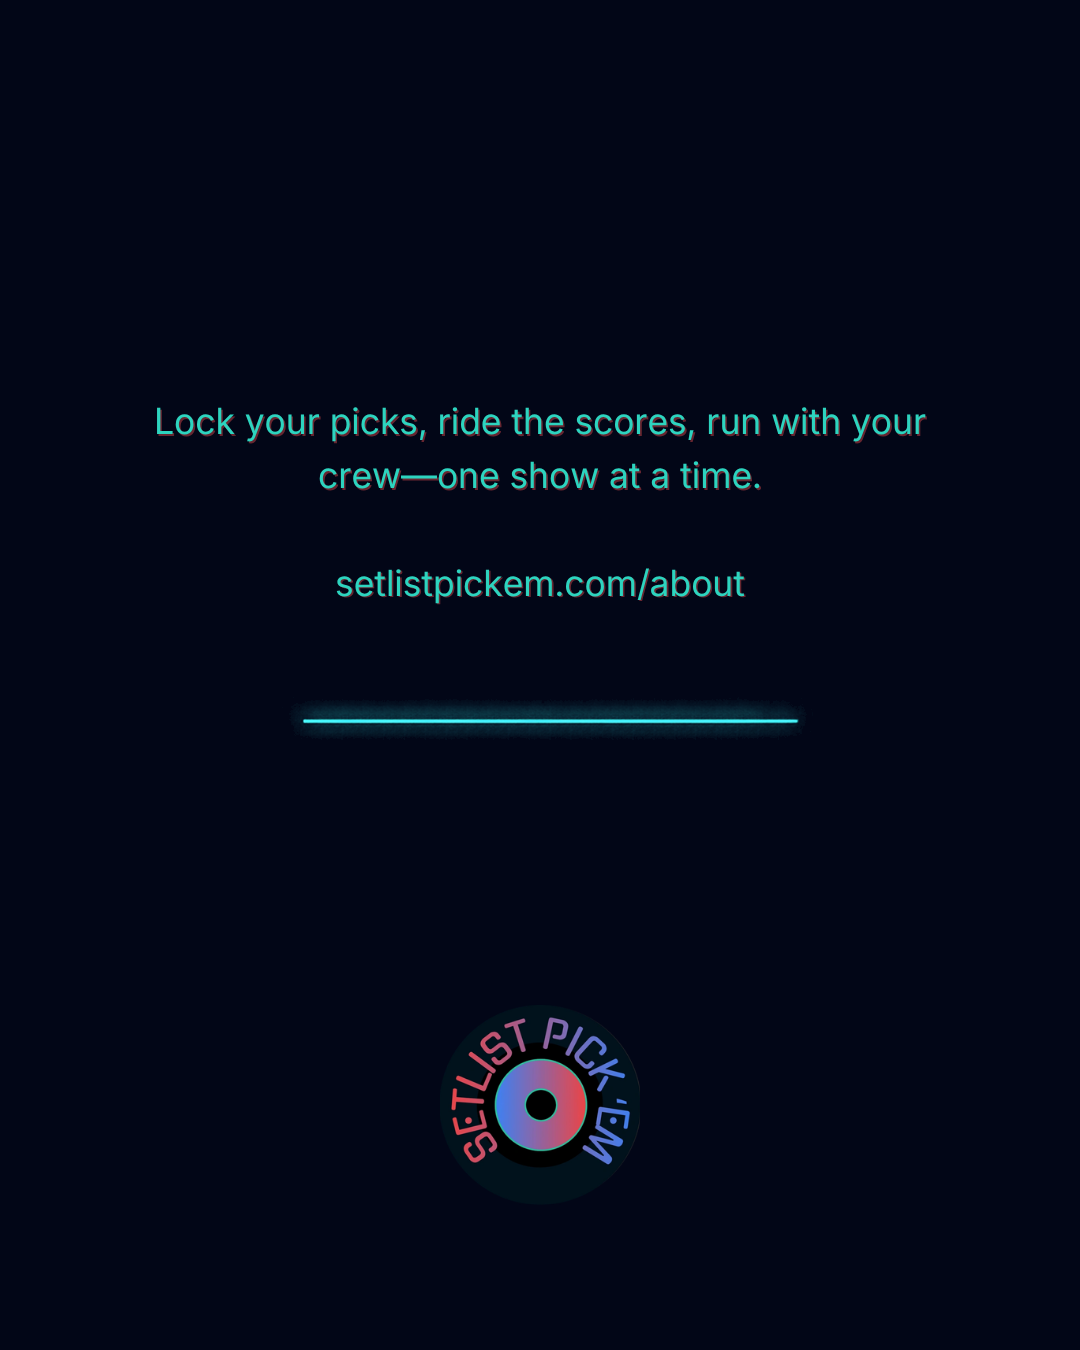
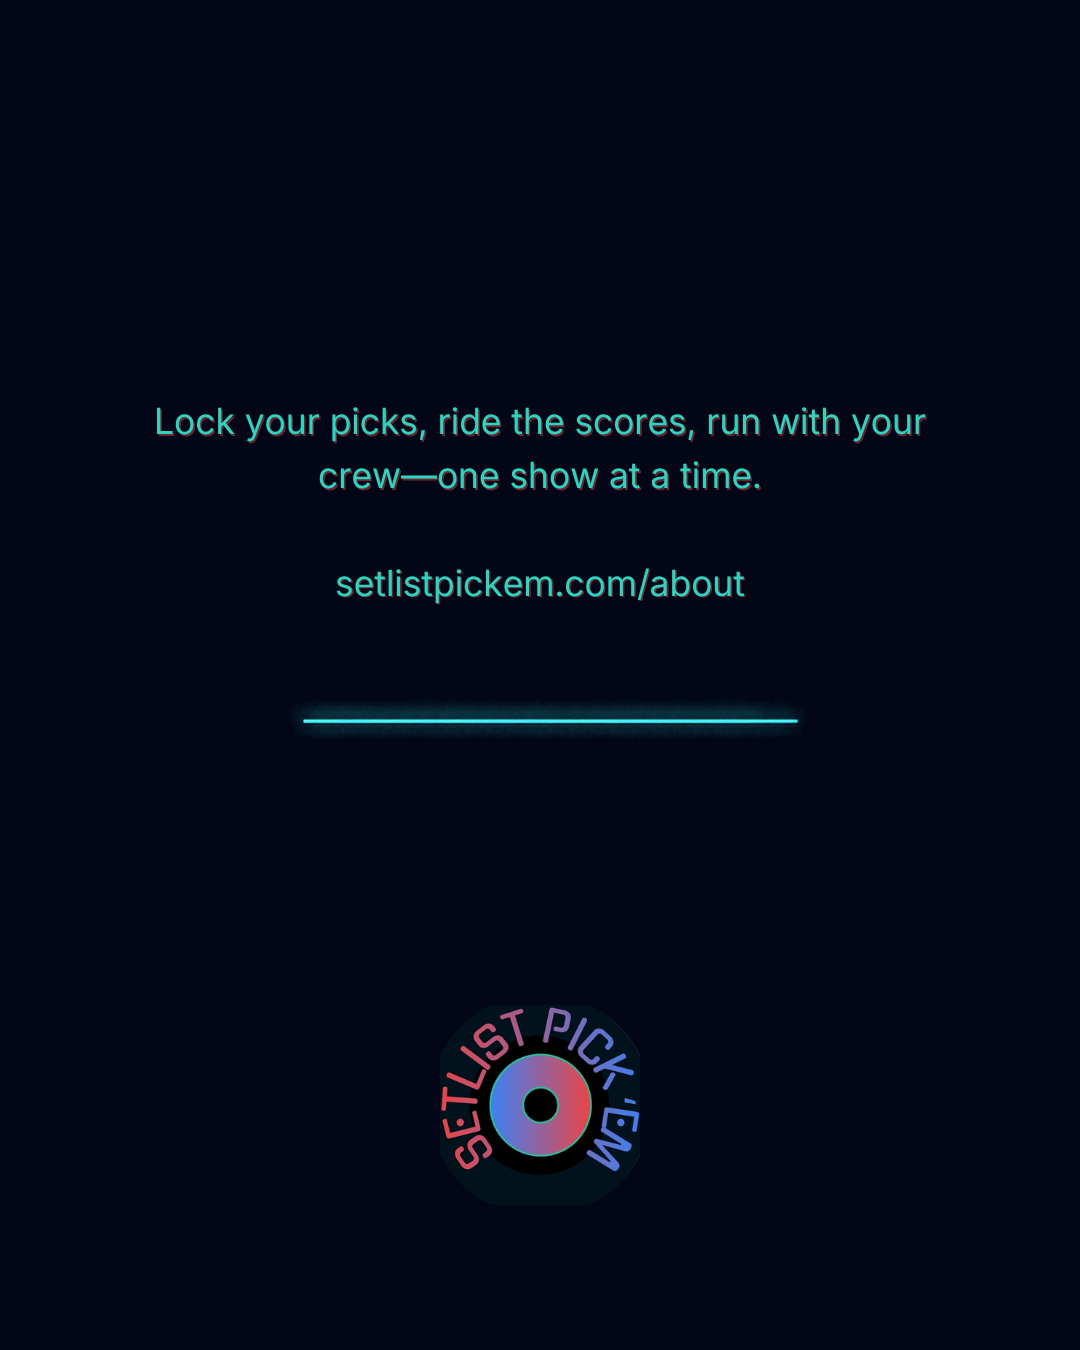
docs(social): record brand-kit limits and restyle masters
Canva MCP cannot write Brand Kit colors/fonts or create Brand Templates, so the repo vinyl and token hexes were applied on the three unpublished score/stat/line frames instead.

Refs #974
Refs #1046

Changed region(s): [[0.3972, 0.7467, 0.6111, 0.8711]]

diff --git a/content/marketing/974-social-template-masters-2026-09-24.md b/content/marketing/974-social-template-masters-2026-09-24.md
@@ -4,7 +4,7 @@
 **Date:** 2026-09-24  
 **Issue:** [#974](https://github.com/pat792/set-picks/issues/974) · follow-on [#1046](https://github.com/pat792/set-picks/issues/1046) · epic [#972](https://github.com/pat792/set-picks/issues/972) · crew [#695](https://github.com/pat792/set-picks/issues/695)  
 **Sibling:** [PR #1047](https://github.com/pat792/set-picks/pull/1047) (`feat/1046-social-phase1-loop`) owns the loop, calendar, and template menu. This pack fills the next menu rows that PR left unbuilt.  
-**Does not:** authorize a live post, publish or share Canva designs, create Brand Templates, or close #974 / #1046.
+**Does not:** authorize a live post, publish or share Canva designs, write the Brand Kit (API cannot), create a Brand Template (API cannot), or close #974 / #1046.
 
 ---
 
@@ -37,7 +37,41 @@ This pack builds those three masters by **copying `slot-card`**, not by running 
 | Setlist Pick 'Em | `kAHJGQBYBxc` | Use this kit. Do not invent a second kit. |
 | (unnamed) | `kAGpVKCjmvY` | Ignore for this program. |
 
-**Brand Templates:** none in this account (`search-brand-templates` returned empty, including when scoped to the Setlist Pick 'Em kit). Autofill is Enterprise-only. These masters are ordinary designs with locked layout — search by **title**.
+**Brand Templates:** none. `search-brand-templates` (all + scoped to `kAHJGQBYBxc`) is still empty. The Canva MCP has **no write API** for Brand Kits or Brand Templates (`list-brand-kits` and `search-brand-templates` are read-only; `create-design-from-brand-template` needs a `BTM*` id we do not have). Autofill is Enterprise-only.
+
+#### Intended kit (repo source of truth — not written onto the kit)
+
+`docs/design.md` §2 plus the CSS vars it points at in `src/index.css` / `tailwind.config.js`. Do not invent a second palette.
+
+| Role | Hex | Source |
+|------|-----|--------|
+| Brand primary / kicker | `#2DD4BF` | design.md + `--brand-primary` `45 212 191` |
+| Brand strong | `#14B8A6` | design.md + `--brand-primary-strong` `20 184 166` |
+| Venue bg (docs table) | `#0F172A` | design.md `brand-bg`; same channel as `--surface-field` |
+| Venue deep (docs table) | `#020617` | design.md `brand-bg-deep` — **used on these masters** |
+| Venue bg (runtime CSS) | `#1E1B4B` | `--brand-bg` `30 27 75` (indigo-950 / Kuroda) |
+| Venue deep (runtime CSS) | `#0F0A2E` | `--brand-bg-deep` `15 10 46` |
+| Wordmark gradient start | `#EF4444` | design.md `brand-accent-red` |
+| Wordmark gradient end | `#3B82F6` | design.md `brand-accent-blue` |
+| Content secondary | `#CBD5E1` | `--content-secondary` `203 213 225` |
+| Rank gold | `#D97706` | design.md; not used on these frames |
+| White | `#FFFFFF` | primary type |
+
+**Fonts (repo):** Space Grotesk (`public/fonts/space-grotesk/SpaceGrotesk-VariableFont_wght.woff2`) for headlines; Inter (`public/fonts/inter/InterVariable.woff2`) for body. `format_text` cannot set `font_family`. These masters still use HK Grotesk Pro + Inter as selected in the Canva editor on `slot-card`.
+
+**Images / icons uploaded to the account library (not attachable to the kit via API):**
+
+| Repo file | Role | Canva `mediaId` |
+|-----------|------|-----------------|
+| `public/branding/splash-vinyl-mark.webp` | App chrome / social mark | `MAHWI9qNlyI` |
+| `public/branding/email-gradient-wordmark.png` | Gradient lockup | `MAHWIyP7KCM` |
+| `public/favicon/apple-touch-icon.png` | Apple app icon | `MAHWI5ixnaw` |
+| `public/favicon/web-app-manifest-512x512.png` | PWA icon | `MAHWI9rs1ys` |
+| `public/branding/og-card-1200x630.png` | Marketing OG card | `MAHWI3l7xuo` |
+
+Applied onto `score` / `stat` / `line`: vinyl `MAHWI9qNlyI` (not the wordmark — menu says one mark). Emphasis `#2DD4BF`. Supporting lines `#CBD5E1`. Ground stays `#020617`. Wordmark / app icons / OG stay in Uploads for a human to drop into kit `kAHJGQBYBxc` in the Canva Brand Kit UI.
+
+**2026-09-24 restyle:** those three unpublished masters only. `slot-card` and older designs were not edited. Nothing published or shared.
 
 ### Existing designs left untouched
 
@@ -69,10 +103,11 @@ MCP `edit_url` values rotate. Search the Canva account by title if a short link 
 
 Shared system (same as the menu / `docs/design.md`):
 
-- Ground `#020617`. No full-bleed wordmark gradient.
-- One teal `#2dd4bf` emphasis per frame.
-- Vinyl mark at the bottom (`public/branding/splash-vinyl-mark.webp`). Do not redraw it.
-- Headline face on these copies is still **HK Grotesk Pro** (Space Grotesk is not in this Canva font list). Slot/body face is Inter.
+- Ground `#020617` (design.md `brand-bg-deep`). No full-bleed wordmark gradient.
+- One teal `#2DD4BF` emphasis per frame.
+- Supporting copy `#CBD5E1` (`content-secondary`).
+- Vinyl mark at the bottom: repo `splash-vinyl-mark.webp` as Canva `MAHWI9qNlyI`. Do not redraw it. Do not pair it with the gradient wordmark on the same frame.
+- Headline face on these copies is still **HK Grotesk Pro** (`format_text` cannot set Space Grotesk). Slot/body face is Inter.
 - Forbidden on the image: song lists, predicted setlists, full-night recaps, a second layout invented in chat.
 
 ---

diff --git a/CHANGELOG.md b/CHANGELOG.md
@@ -39,7 +39,7 @@ Public API is declared in [`docs/API.md`](docs/API.md).
 ### Added
 - **Mobile Chrome keyboard / Make Picks chrome investigation (#1041)** — `docs/investigations/mobile-chrome-keyboard-picks-chrome.md` diagnoses iOS Chrome letterboxing vs usable Safari (evidence under `docs/investigations/evidence/`), cites Chrome/WebKit/`visualViewport` research, and ranks fix options against dashboard chrome principles. Docs only; no version bump.
 - **Owned social loop and Phase 1 calendar (#974 / #1046)** — `content/marketing/974-social-post-loop.md` is the “run the social loop” order (Social → Brand Systems → Demand Gen → EiC). Phase 1 paste dates through 2026-10-14 are in `content/marketing/974-social-phase1-calendar.md`. Fan-facing voice lives in the brand skill. No live post, no declared API change, no version bump.
-- **Owned-social Canva masters (#974 / #1046)** — draft `score`, `stat`, and `line` feed frames plus `content/marketing/974-social-template-masters-2026-09-24.md`. Docs and PNG exports only; no version bump.
+- **Owned-social Canva masters (#974 / #1046)** — draft `score`, `stat`, and `line` feed frames plus `content/marketing/974-social-template-masters-2026-09-24.md`. Repo vinyl + token colors applied on those three designs; Brand Kit / Brand Template writes are not available via Canva MCP. Docs and PNG exports only; no version bump.
 - **SEO query registry (#931 / epic #926)** — `docs/seo/query-registry.json` seeds B1–B3, C1–C7, S1–S7 (including #931 fan strings). Weekly append-only GSC log procedure is in `docs/seo/README.md`; snapshots stay under gitignored `crew/output/seo/`.
 - **SEO competitor title/H1 scan (#933 / epic #926)** — PR-gated allowlist adds `phishpicks.net` / `phish.jampicks.com` (homepage GET only). `crew/scripts/seo_title_h1_scan.py` extracts title + H1–H3 and diffs `docs/seo/query-registry.json`. Durable brief: `content/marketing/933-competitor-title-h1-gap-brief.md`. Callingit.live / ihoz / Phantasy Tour omitted (ToS or unverifiable). No `/phish-picks`. No version bump (docs + crew scripts).
 - **SEO Optimize autonomy (#934 / epic #926)** — `docs/SEO_OPTIMIZE_AUTONOMY.md` is the draft-only scored tune loop (`stats_impressions` \| `query_coverage` \| `geo_citations` \| `crawl_regressions`). Weekly E1 facts packs stay comment-only; agents may open a **draft** PR to `staging` only when scored `DRAFT_PR`. Docs only after **1.63.0** (#991 / #993); no PATCH bump. Packs ingest the #933 competitor brief when present.
